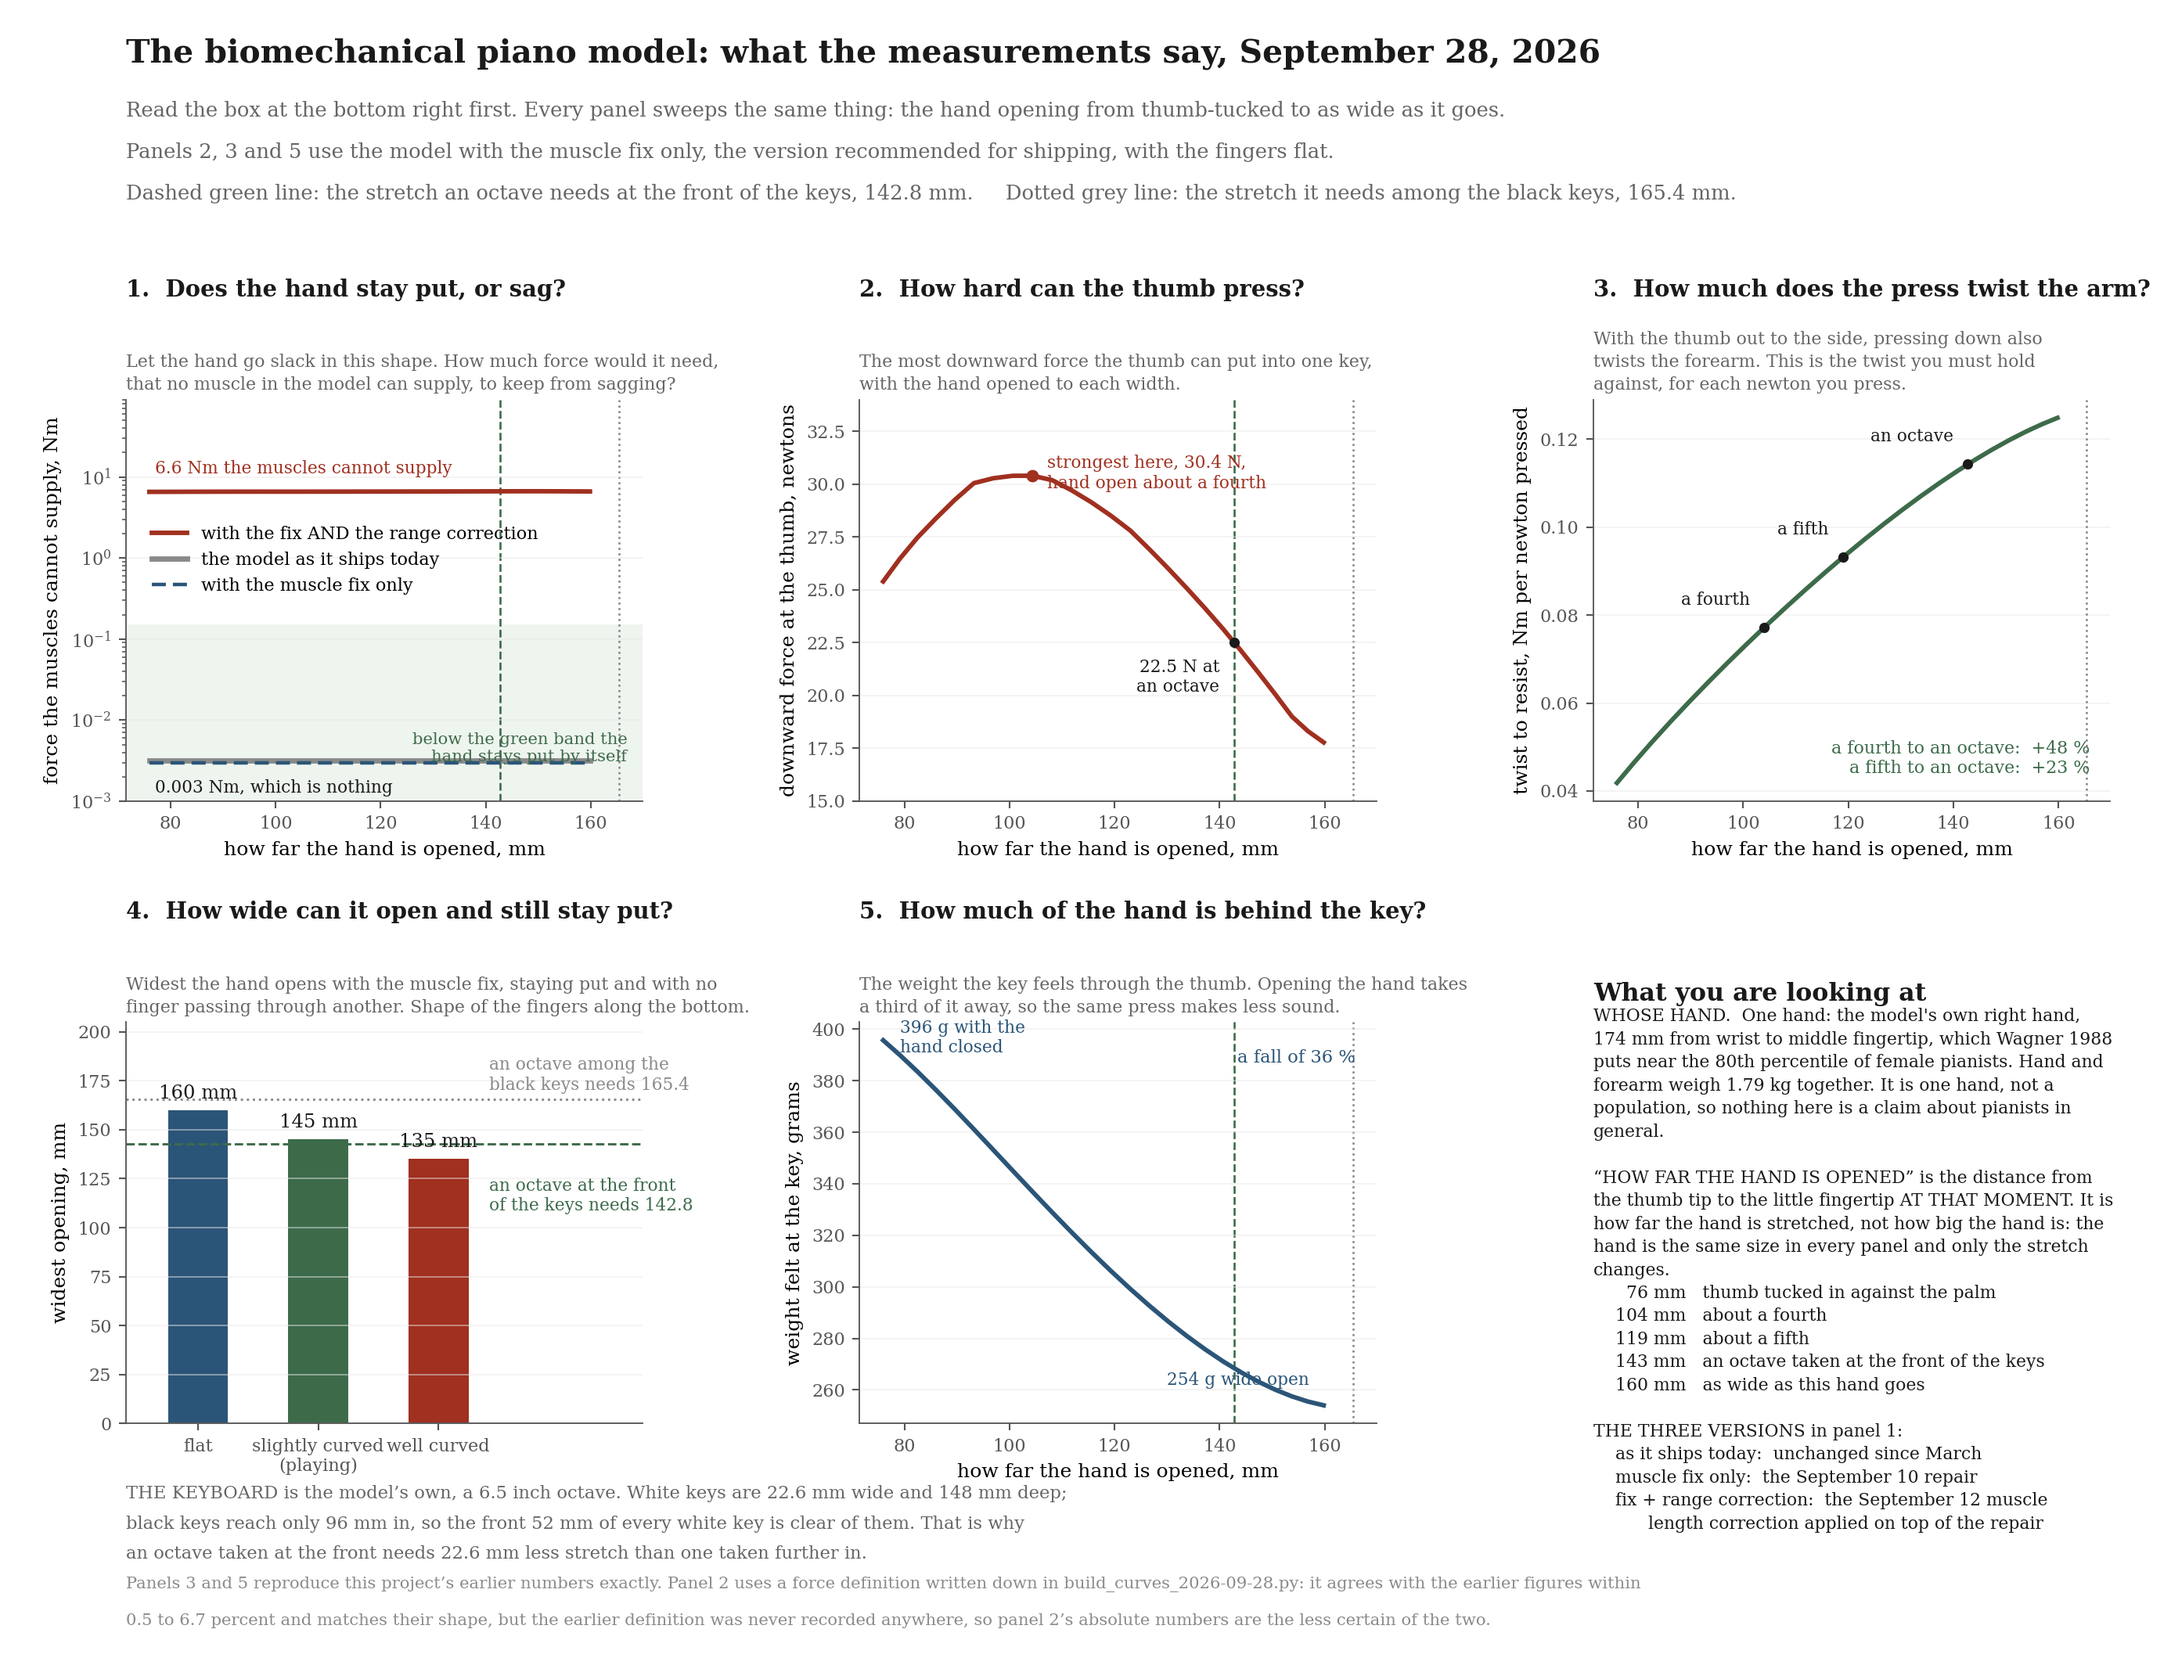
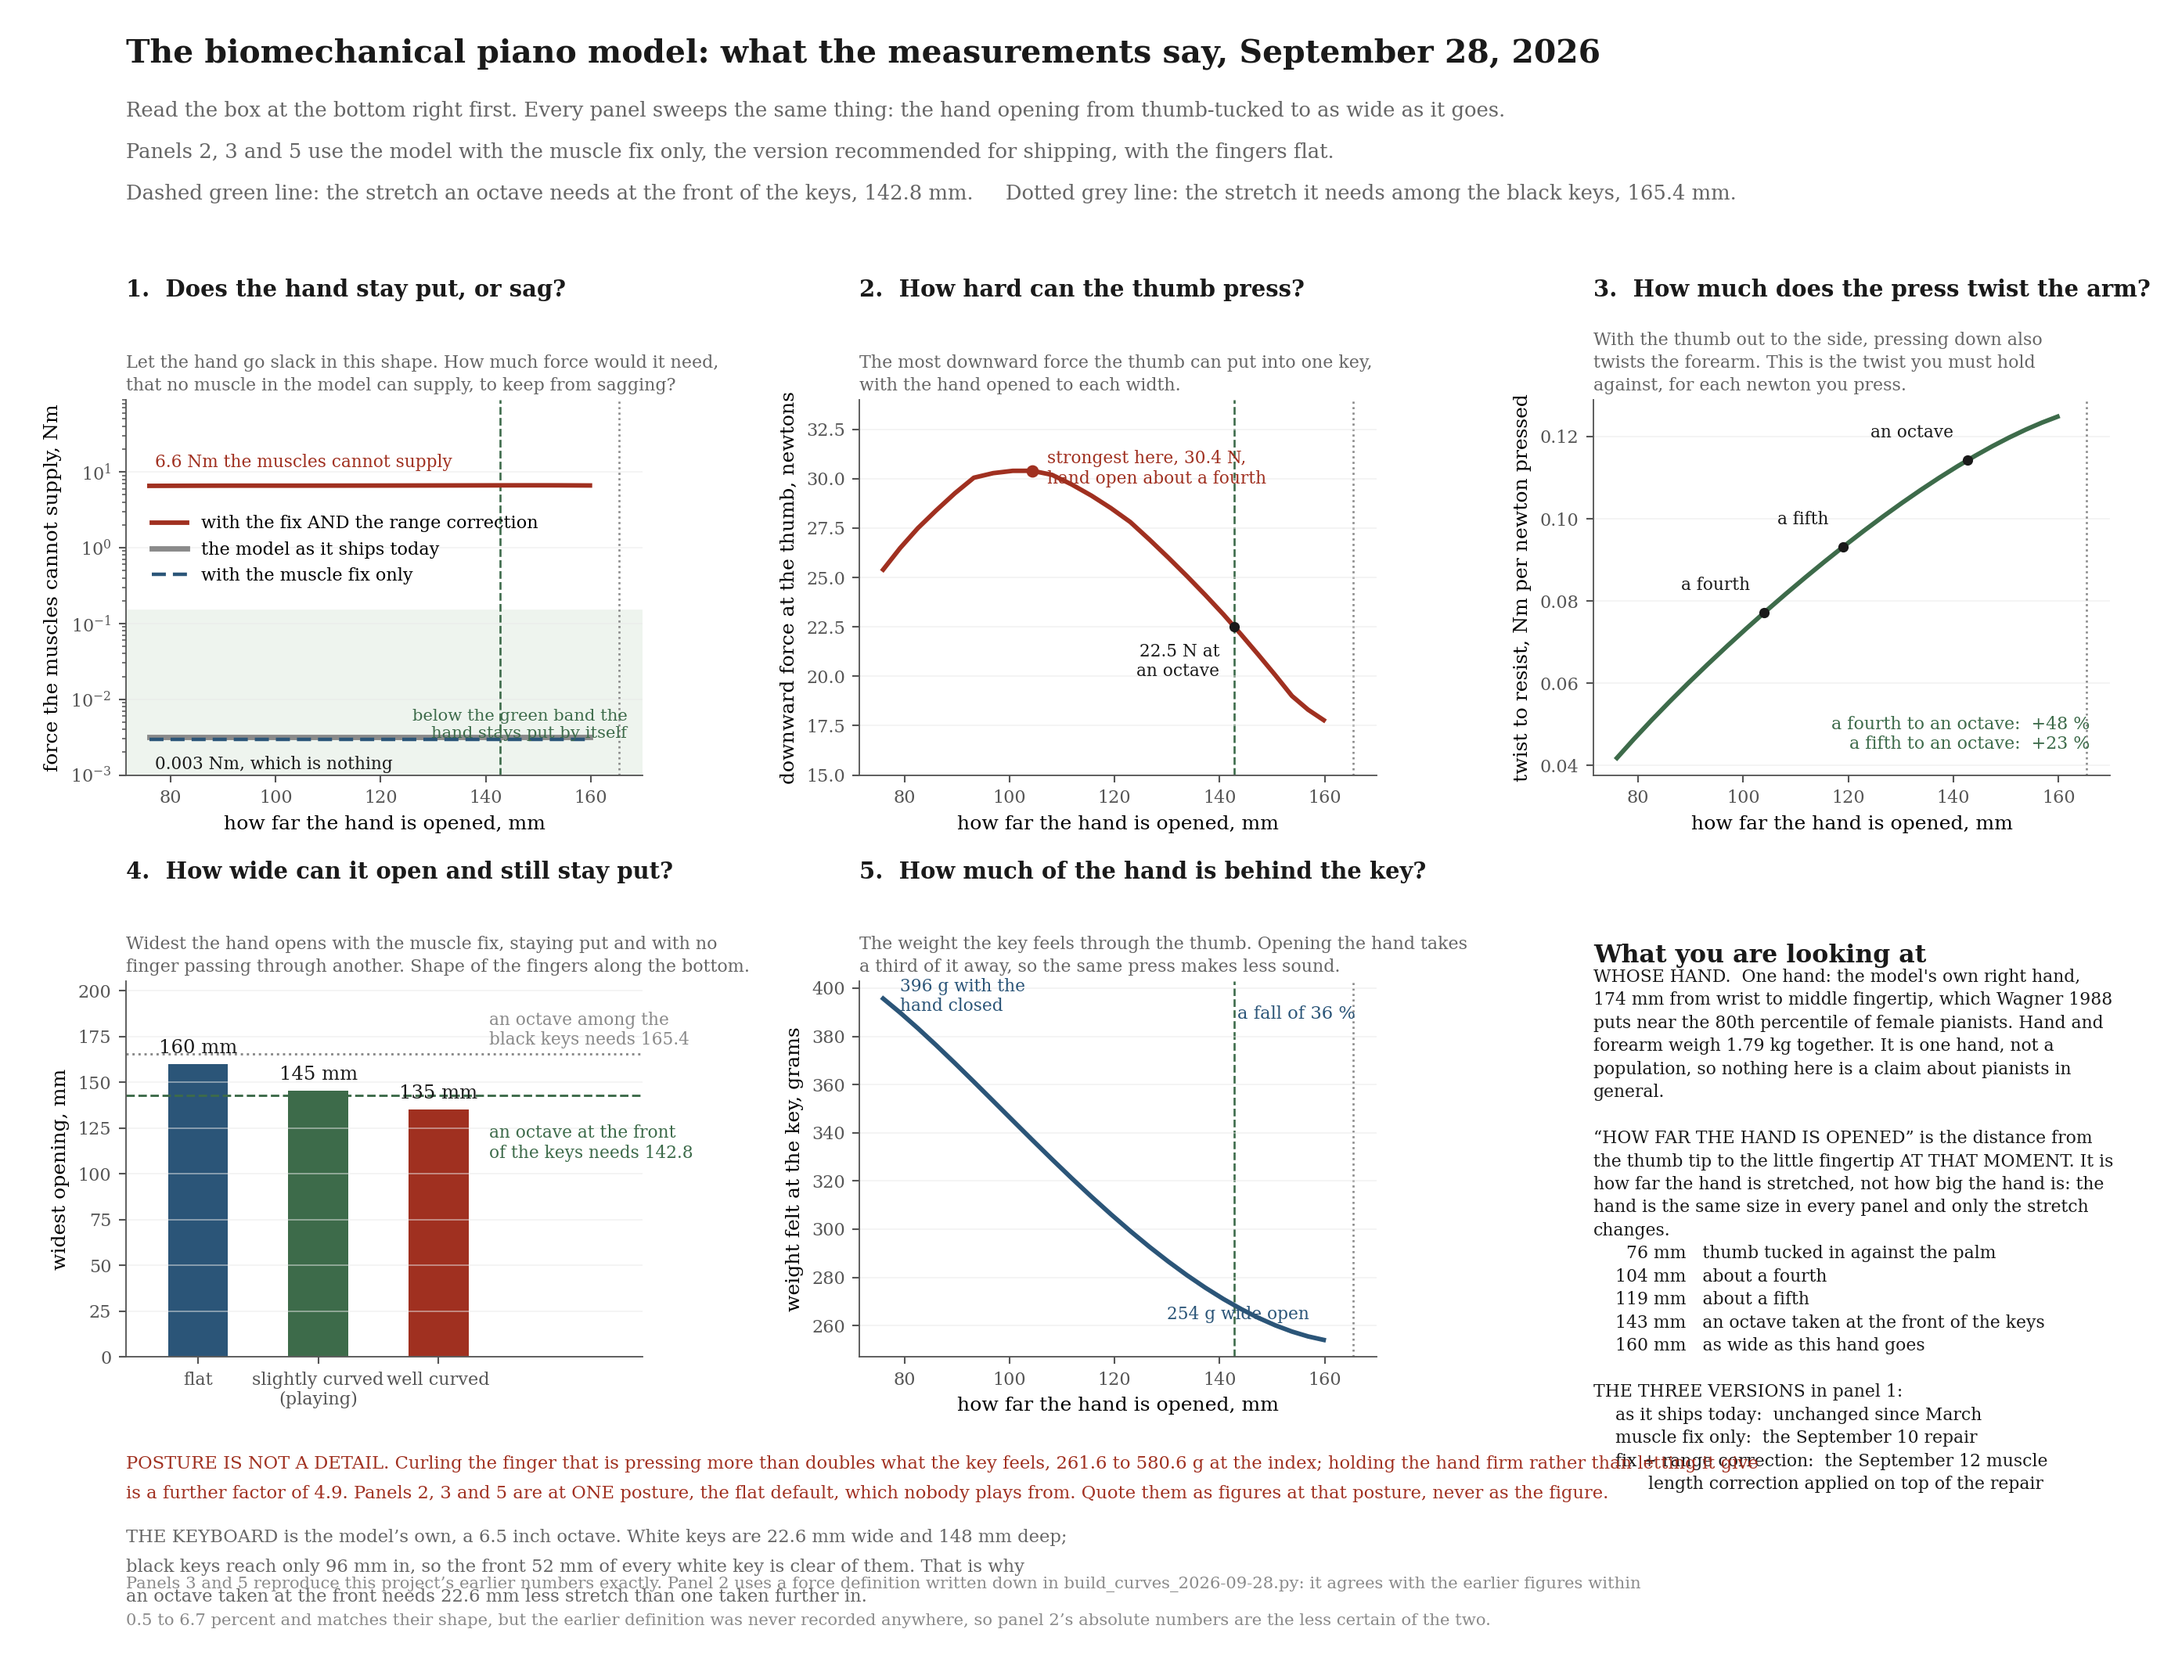
Posture named on every figure and in the README; the last two jargon words out of CHANGES

diff --git a/analysis/build_curves_2026-09-28.py b/analysis/build_curves_2026-09-28.py
@@ -91,9 +91,18 @@ WHAT EACH COLUMN IS
       touch, and 7 of 10 contacts at a measured human resting posture sit inside
       the 1 mm geom margin without overlapping.
 
-POSTURE. --mcp, --pip and --dip are degrees of flexion applied to all four
-fingers, measured FROM THE FLAT DEFAULT, which is qpos0 and is zero at every
-finger joint. They are NOT the "curl" fraction of earlier scripts: that
+POSTURE, AND IT IS THE LARGEST THING ON THIS PAGE. --mcp, --pip and --dip are
+degrees of flexion applied to all four fingers, measured FROM THE FLAT DEFAULT,
+which is qpos0 and is zero at every finger joint.
+
+**Posture is not a detail in this model and no curve should be quoted without
+it.** Curling the finger that is pressing takes what the key feels from 261.6 to
+580.6 grams at the index and 255.6 to 618.0 at the middle. Holding the hand firm
+rather than letting the joints give is a further factor of 4.9, 53.9 grams
+against 261.6 at one posture. Both are larger than the 35.8 percent the whole
+thumb abduction sweep produces. Every CSV this writes carries its posture and
+this warning in its header, so the number cannot be separated from the condition
+it was measured under. They are NOT the "curl" fraction of earlier scripts: that
 parameterised each joint as `lower limit + curl x range`, so curl 0.00 put every
 joint at its lower limit, which is 30 degrees of hyperextension at the knuckle,
 and that was misread as the default. R28 withdrew the claim that followed.
@@ -275,7 +284,19 @@ def main():
 
     cols = list(rows[0].keys())
     out = a.out or f"curve_{a.hand}_mcp{a.mcp:g}_pip{a.pip:g}_dip{a.dip:g}.csv"
+    flat = (a.mcp == 0 and a.pip == 0 and a.dip == 0)
     with open(out, "w") as f:
+        f.write(f"# FINGER POSTURE: MCP {a.mcp}, PIP {a.pip}, DIP {a.dip} degrees of flexion "
+                f"from the flat default. Hand: {a.hand}. Assets: {a.assets}\n")
+        f.write("# POSTURE IS NOT A DETAIL IN THIS MODEL. Curling the finger that is pressing\n"
+                "# takes what the key feels from 261.6 to 580.6 g at the index and 255.6 to\n"
+                "# 618.0 at the middle, measured September 28, 2026. Holding the hand firm\n"
+                "# rather than letting the joints give is a further factor of 4.9. So a curve\n"
+                "# measured at one posture is a curve at that posture and nothing more.\n")
+        if flat:
+            f.write("# THIS SWEEP IS AT THE FLAT DEFAULT, which is a fully extended hand and is\n"
+                    "# not a posture anyone plays from. It is defensible only where the finger\n"
+                    "# being measured is the one being moved. Say so wherever these are quoted.\n")
         f.write(",".join(cols) + "\n")
         for r in rows:
             f.write(",".join(f"{r[c]:.18e}" for c in cols) + "\n")
@@ -295,6 +316,11 @@ def main():
               "inherits an equilibrium the model cannot satisfy.")
     if ov > 0.5:
         print("CAUTION: fingers interpenetrate deeper than P28's 0.5 mm criterion.")
+    if flat:
+        print("CAUTION: this sweep is at the FLAT DEFAULT, a fully extended hand, which nobody\n"
+              "         plays from. Curling the pressing finger more than doubles what the key\n"
+              "         feels, and holding the hand firm rather than letting it give is a further\n"
+              "         factor of 4.9. Quote these as figures at one posture, never as the figure.")
     print(f"written: {out}")
 
 

diff --git a/analysis/plot_abduction_curves_2026-09-28.py b/analysis/plot_abduction_curves_2026-09-28.py
@@ -15,7 +15,7 @@ plt.rcParams.update({'font.family':'serif','font.size':10,'axes.titlesize':11.5,
 INK='#1a1a1a'; RED='#a03020'; BLUE='#2b5578'; GREY='#9a9a9a'; SOFT='#666'
 
 fig=plt.figure(figsize=(14.2,6.6))
-gs=fig.add_gridspec(1,3,wspace=0.30,top=0.615,bottom=0.240,left=0.055,right=0.985)
+gs=fig.add_gridspec(1,3,wspace=0.30,top=0.615,bottom=0.275,left=0.055,right=0.985)
 ax=[fig.add_subplot(gs[0,i]) for i in range(3)]
 
 def span_axis(a):
@@ -55,7 +55,9 @@ fig.text(0.055,0.829,'Negative angles are the thumb tucked toward the palm, zero
 fig.text(0.055,0.105,'FORCE TRANSFER is effective mass at the thumb tip, the quantity the goals document asks for: the inertia the key actually feels through that finger. It is identical on all three trees',fontsize=8.6,color=SOFT)
 fig.text(0.055,0.077,'because it carries no muscle parameter, so it is a null rather than corroboration of the other two panels.  STRENGTH and AGILITY are this project\'s own recorded columns. Their formulas',fontsize=8.6,color=SOFT)
 fig.text(0.055,0.049,'were never written down and have not been recovered, so the shapes and the within-curve ratios are the result and the absolute values are the less certain part.',fontsize=8.6,color=SOFT)
-fig.text(0.055,0.026,'Measured on the shipped model and on the STEP 1 tree, the September 10 muscle repair WITH the September 12 range correction, at the flat default posture, which Step 1 cannot hold.',fontsize=7.8,color='#999')
-fig.text(0.055,0.006,'On the muscle repair alone, strength peaks at -4.2 deg and falls 41.5 percent from it, not -7.3 and 46.4. Data in AI_Model_CL/, the two CSVs named "three channels".',fontsize=7.6,color='#999')
+fig.text(0.055,0.044,'POSTURE IS NOT A DETAIL. Curling the finger that is pressing takes what the key feels from 261.6 to 580.6 g at the index and 255.6 to 618.0 at the middle; holding the hand firm rather than',fontsize=8.2,color='#a03020')
+fig.text(0.055,0.028,'letting it give is a further factor of 4.9. These curves are at ONE posture and are quoted as that, never as the figure. Flat fingers are defensible here only because the thumb is what is measured.',fontsize=8.2,color='#a03020')
+fig.text(0.055,0.010,'Measured on the shipped model and on the STEP 1 tree, the September 10 muscle repair WITH the September 12 range correction, at the flat default posture, which Step 1 cannot hold.',fontsize=7.8,color='#999')
+fig.text(0.055,-0.006,'On the muscle repair alone, strength peaks at -4.2 deg and falls 41.5 percent from it, not -7.3 and 46.4. Data in AI_Model_CL/, the two CSVs named "three channels".',fontsize=7.6,color='#999')
 fig.savefig(D+"FIGURE, force transfer and agility against abduction angle 2026-09-28.png",dpi=190)
 print("written")

diff --git a/analysis/plot_the_curves_2026-09-28.py b/analysis/plot_the_curves_2026-09-28.py
@@ -46,7 +46,7 @@ def octl(a):
     a.axvline(OCT_F,color=GREEN,lw=1.0,ls='--',zorder=1); a.axvline(OCT_D,color=GREY,lw=1.0,ls=':',zorder=1)
 
 fig=plt.figure(figsize=(14.6,11.2))
-gs=fig.add_gridspec(2,3,hspace=0.55,wspace=0.42,top=0.760,bottom=0.145,left=0.058,right=0.972)
+gs=fig.add_gridspec(2,3,hspace=0.55,wspace=0.42,top=0.760,bottom=0.185,left=0.058,right=0.972)
 A=fig.add_subplot(gs[0,0]); B=fig.add_subplot(gs[0,1]); C=fig.add_subplot(gs[0,2])
 E=fig.add_subplot(gs[1,0]); F=fig.add_subplot(gs[1,1]); T=fig.add_subplot(gs[1,2]); T.axis('off')
 
@@ -136,8 +136,10 @@ fig.text(0.058,0.905,'Panels 2, 3 and 5 use the model with the muscle fix only, 
 fig.text(0.058,0.880,'Dashed green line: the stretch an octave needs at the front of the keys, 142.8 mm.     Dotted grey line: the stretch it needs among the black keys, 165.4 mm.',fontsize=9.8,color=SOFT)
 fig.text(0.058,0.046,'Panels 3 and 5 reproduce this project’s earlier numbers exactly. Panel 2 uses a force definition written down in build_curves_2026-09-28.py: it agrees with the earlier figures within',fontsize=8,color=GREY)
 fig.text(0.058,0.024,'0.5 to 6.7 percent and matches their shape, but the earlier definition was never recorded anywhere, so panel 2’s absolute numbers are the less certain of the two.',fontsize=8,color=GREY)
-fig.text(0.058,0.100,'THE KEYBOARD is the model’s own, a 6.5 inch octave. White keys are 22.6 mm wide and 148 mm deep;',fontsize=8.6,color=SOFT)
-fig.text(0.058,0.082,'black keys reach only 96 mm in, so the front 52 mm of every white key is clear of them. That is why',fontsize=8.6,color=SOFT)
-fig.text(0.058,0.064,'an octave taken at the front needs 22.6 mm less stretch than one taken further in.',fontsize=8.6,color=SOFT)
+fig.text(0.058,0.118,'POSTURE IS NOT A DETAIL. Curling the finger that is pressing more than doubles what the key feels, 261.6 to 580.6 g at the index; holding the hand firm rather than letting it give',fontsize=8.6,color='#a03020')
+fig.text(0.058,0.100,'is a further factor of 4.9. Panels 2, 3 and 5 are at ONE posture, the flat default, which nobody plays from. Quote them as figures at that posture, never as the figure.',fontsize=8.6,color='#a03020')
+fig.text(0.058,0.074,'THE KEYBOARD is the model’s own, a 6.5 inch octave. White keys are 22.6 mm wide and 148 mm deep;',fontsize=8.6,color=SOFT)
+fig.text(0.058,0.056,'black keys reach only 96 mm in, so the front 52 mm of every white key is clear of them. That is why',fontsize=8.6,color=SOFT)
+fig.text(0.058,0.038,'an octave taken at the front needs 22.6 mm less stretch than one taken further in.',fontsize=8.6,color=SOFT)
 fig.savefig(OUT+'/FIGURES, the measured curves 2026-09-28_run2.png',dpi=190)
 print('written')

diff --git a/README.md b/README.md
@@ -101,6 +101,33 @@ These replace two shipped files whose contents are swapped: `piano_ds5.1.xml` me
 
 ---
 
+## `analysis/` — the curves, and the one thing to know before quoting them
+
+`build_curves_2026-09-28.py` sweeps thumb abduction at a stated finger posture and writes every
+channel together with each row's holdability and finger overlap, so no row can be read without
+knowing whether its posture is valid. `plot_abduction_curves_2026-09-28.py` and
+`plot_the_curves_2026-09-28.py` draw the two figures beside them.
+
+**POSTURE IS NOT A DETAIL IN THIS MODEL, and it is larger than the effect the curves report.**
+Measured September 28, 2026: curling the finger that is pressing takes what the key feels from
+**261.6 to 580.6 grams** at the index and 255.6 to 618.0 at the middle. Holding the hand firm rather
+than letting the joints give is a further **factor of 4.9**, 53.9 grams against 261.6 at one
+posture. Against those, the whole thumb abduction sweep moves force transfer by 35.8 percent.
+
+**So every figure here is a figure at one posture, never the figure.** These curves were measured
+with the fingers flat, which is a fully extended hand and is not a posture anyone plays from. That
+is defensible for the thumb sweep, because the thumb is the finger being measured and curling the
+others moves it by a third of one percent, **and it does not generalize to anything else.**
+
+The generator writes the posture into the header of every CSV and prints the warning on every run at
+the flat default, so the number cannot be separated from the condition it was measured under.
+
+**Two of the three channels are this project's own recorded columns whose formulas were never
+written down and have not been recovered.** Force transfer, meaning effective mass at the fingertip,
+reproduces the record exactly and is validated on nine independent figures. Strength agrees within
+0.5 to 6.7 percent and matches the shape. Agility does not reproduce at all. Read the generator's
+docstring before trusting any column.
+
 ## `checks/` — how to disbelieve any number above
 
 `check_model_state.py` is the standing check: it compares a copy against recorded settled values and fails with its reasoning rather than a number. It does not inspect tendon wrapping, length ranges or where a file came from, so passing it is not evidence that a copy is what it should be. The checksums establish that.

diff --git a/CHANGES 2026-09-28.md b/CHANGES 2026-09-28.md
@@ -56,7 +56,7 @@ the safe one only by accident.
 **The package solves this by shipping the six files already combined**, so there is no order and no
 choice.
 
-## 2. Why the check you have refuses a correct tree
+## 2. Why the check you have refuses a correct copy
 
 `check_range_correction_2026-09-12.py` counts passive force **over each muscle's whole travel** and
 refuses if any muscle carries more than a tenth of its declared peak anywhere in that travel.
@@ -133,7 +133,7 @@ passive torque at every hand degree of freedom, and is what found the 6.59 Nm. B
 `checks/`, along with `passive_where_it_actually_sits_2026-09-12.py`, which the first one imports.
 **There is one sampler on purpose:** the first version of that check reimplemented it and reported 7
 at the median against the established 1, and the disagreement was caught only by running both on one
-tree.
+copy.
 
 **A curve generator.** `analysis/build_curves_2026-09-28.py` sweeps thumb abduction at a stated
 finger posture and writes every channel together with each row's holdability and interpenetration,
